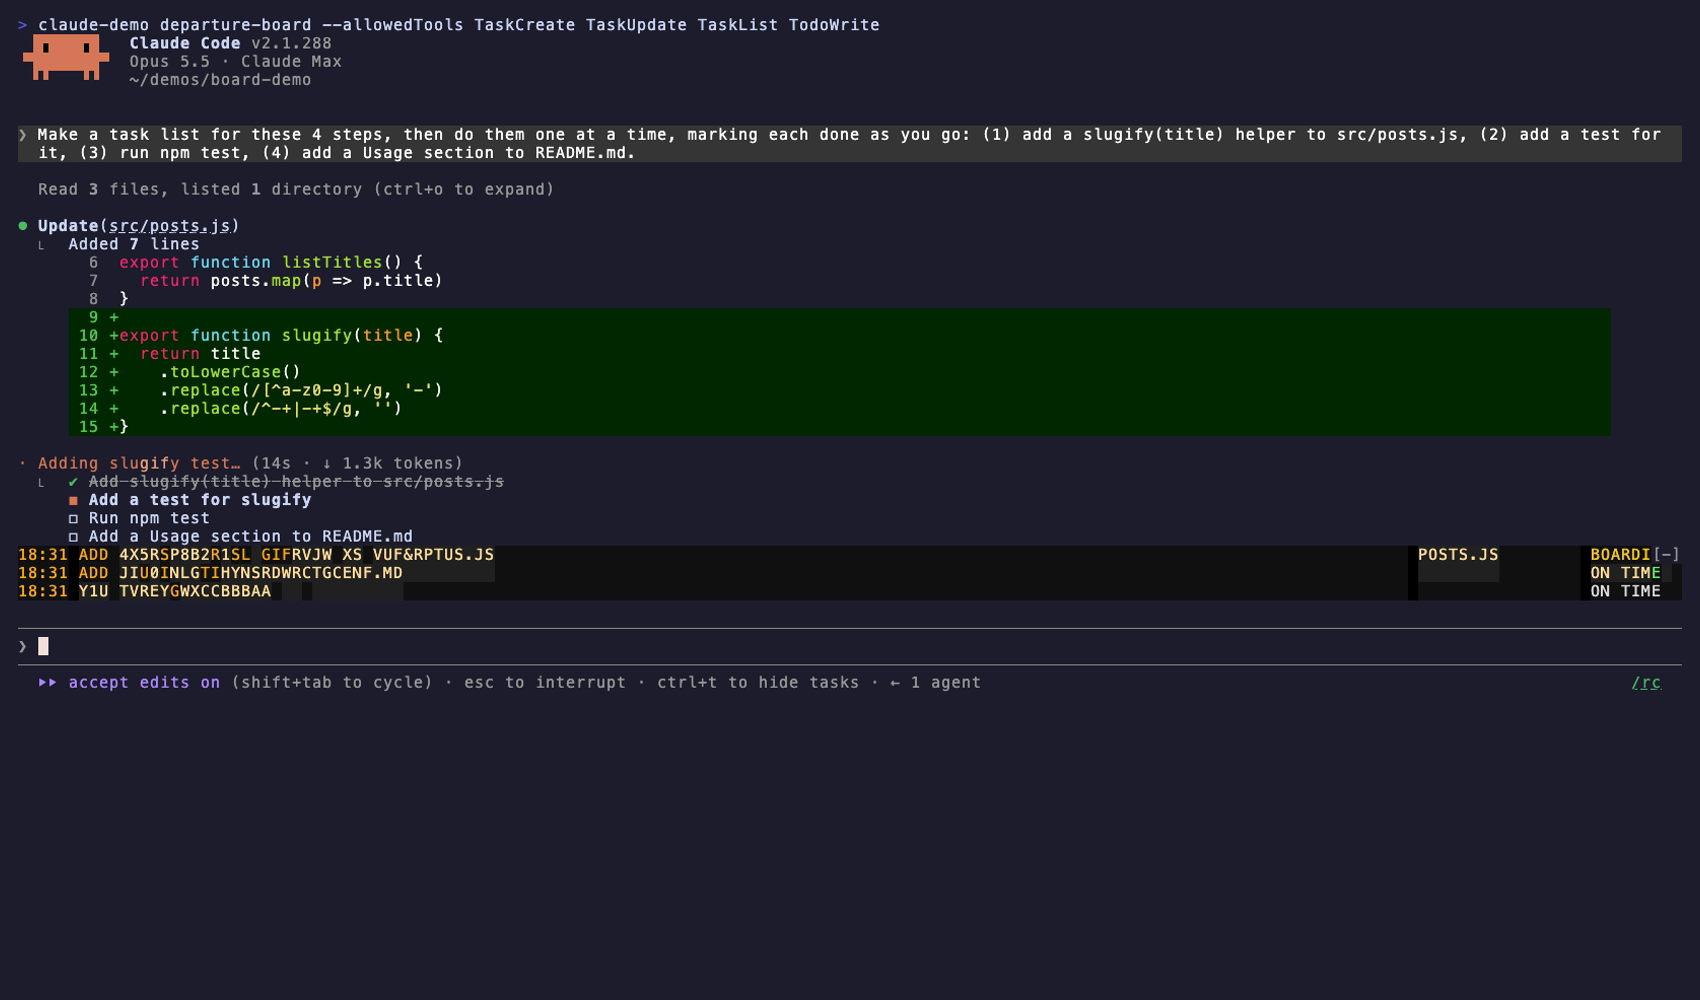
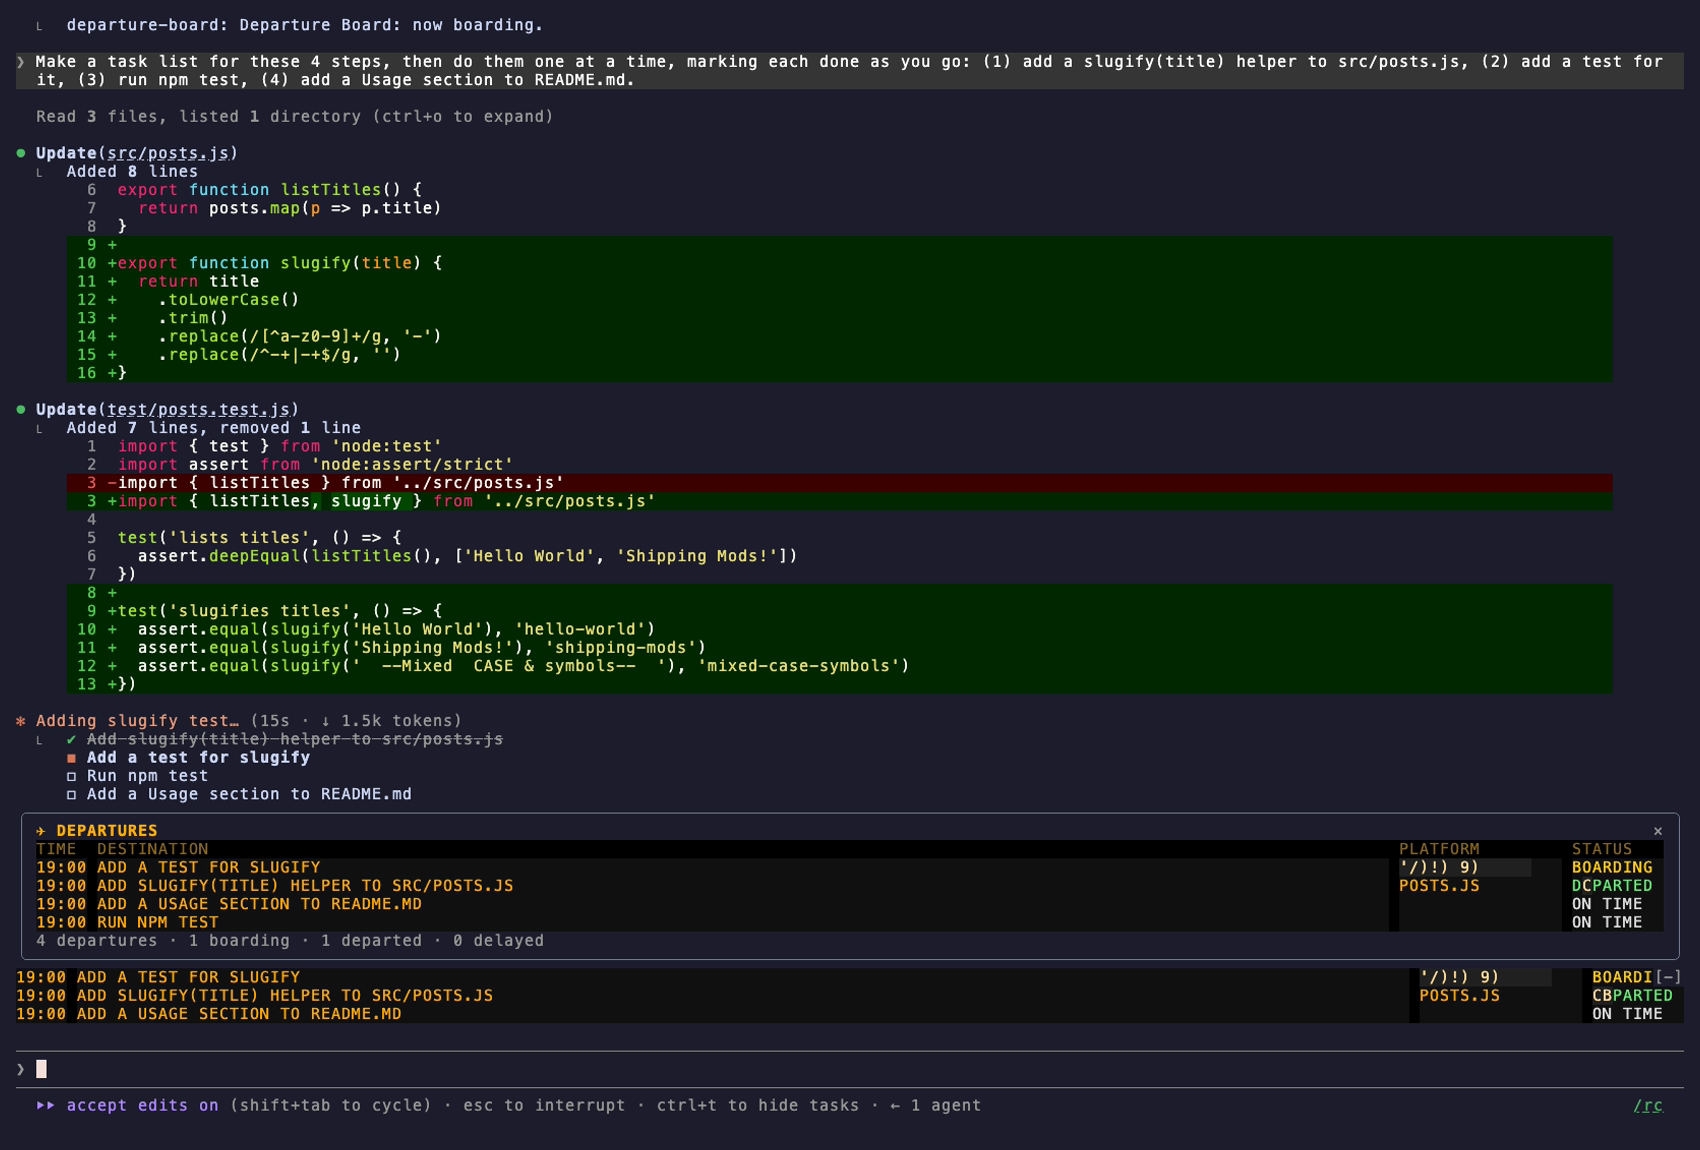
Inline /board sizes itself to its departures and grows with the board; a task list replaces only the turn that started it
- ui.open asks for rows = departures + title/header/footer (6..30), and asks again whenever the board grows
- inline pane lays out to the rows it asked for; a smaller body is trusted only below the last drawn height
- compact layout drops the title, then the footer, so the tree never exceeds its body
- a task list absorbs the turn row of the prompt that started it, once something on the list is boarding
- re-recorded demo: the pane now shows every departure

Claude-Session: https://claude.ai/code/session_017VGnCbLQmqNLXcx8R6Ha7V

diff --git a/hooks/register.tsx b/hooks/register.tsx
@@ -15,8 +15,11 @@ const MIN_COLUMNS = 21
 // Prompts that are a person's own words: each one is a new departure when no task list exists.
 const PERSON = ['composer', 'bridge', 'sdk', 'channel', 'slack-ping']
 const TASK_TOOLS = new Set(['TodoWrite', 'TaskCreate', 'TaskUpdate', 'TaskList'])
-// The pane opens this tall inline: a header, a handful of departures and the footer.
-const PANE_ROWS = 14
+// The inline pane asks to be as tall as its departures, between these bounds; a longer board scrolls its oldest away.
+const MIN_PANE_ROWS = 6
+const MAX_PANE_ROWS = 30
+// Rows around the departures: the title, the board's header row and the footer.
+const PANE_CHROME_ROWS = 3
 
 type Site = { requestId: string; key: string; flaps: Flaps }
 type Call = { tool: string; [k: string]: unknown }
@@ -33,6 +36,14 @@ let isClackOn = false
 const waitingPrompts: string[] = []
 // The main loop's running turn, so a plain tool call belongs to its row.
 let runningTurn: string | null = null
+// While the pane is open, the body rows it last asked for: a longer board asks again.
+let askedRows: number | null = null
+// The height of the tree the pane drew last: an inline host reports min(granted, measured), so only a report
+// smaller than what was drawn is a real, smaller window.
+let lastPaneHeight = 0
+
+// The turn whose prompt started the current task list: its row leaves once the list has something on its way.
+let listOwner: string | null = null
 
 /** A task list is "on" while some todo or task is still to go; a finished list gives the board back to the turns. */
 function hasLiveTaskList(all: BoardRow[]): boolean {
@@ -41,7 +52,15 @@ function hasLiveTaskList(all: BoardRow[]): boolean {
 
 /** The rows a board shows: the live task list when there is one, else everything (turns and finished items). */
 function shownRows(all: BoardRow[]): BoardRow[] {
-  return hasLiveTaskList(all) ? all.filter(r => r.source !== 'turn') : all
+  // The turn that started the list stays up until the list has something on its way (then it leaves the board).
+  return hasLiveTaskList(all) ? all.filter(r => r.source !== 'turn' || r.id === listOwner) : all
+}
+
+/** The list's creator leaves the board once the list has an item on its way; until then it keeps the platform and errors. */
+function absorbOwner(list: BoardRow[]): BoardRow[] {
+  if (listOwner === null) return list
+  const id = listOwner
+  return list.some(r => r.source !== 'turn' && isLive(r)) ? list.filter(r => r.id !== id) : list
 }
 
 const normalize = (text: string) => text.replace(/\s+/g, ' ').trim()
@@ -108,12 +127,39 @@ function place(id: string, requestId: string, key: string, columns: number, heig
   return site
 }
 
+/** The body rows the pane wants for this board: every shown departure plus its title, header row and footer. */
+export function wantedRows(all: BoardRow[]): number {
+  return Math.min(MAX_PANE_ROWS, Math.max(MIN_PANE_ROWS, shownRows(all).length + PANE_CHROME_ROWS))
+}
+
 async function openBoard($: EngineInterface): Promise<boolean> {
   try {
-    const opened = await $.ui.open({ id: PANE, title: 'Departures', rows: PANE_ROWS })
+    const want = wantedRows(await read($, rows))
+    const opened = await $.ui.open({ id: PANE, title: 'Departures', rows: want })
+    askedRows = opened.isPlaced ? want : null
     return opened.isPlaced
   } catch {
     return false
+  }
+}
+
+/** While the pane is open, ask for more rows once the board has outgrown what it asked for. */
+async function growBoard($: EngineInterface): Promise<void> {
+  try {
+    if (askedRows === null) {
+      // After a reload the module forgot what it asked for; a pane still on screen is still open.
+      const panes = await $.ui.panes()
+      const open = panes.some(p => p.id === PANE && p.isPlaced)
+      if (!open) return
+      askedRows = wantedRows(await read($, rows))
+      return
+    }
+    const want = wantedRows(await read($, rows))
+    if (want <= askedRows) return
+    const opened = await $.ui.open({ id: PANE, title: 'Departures', rows: want })
+    if (opened.isPlaced) askedRows = want
+  } catch {
+    // The board keeps its size; it still scrolls the oldest away.
   }
 }
 
@@ -193,6 +239,8 @@ export const register: Register = (on, options) => {
 
   on('ui.close', { id: PANE }, async ($, e, next) => {
     sites.delete(PANE)
+    askedRows = null
+    lastPaneHeight = 0
     return next(e)
   })
 
@@ -221,6 +269,7 @@ export const register: Register = (on, options) => {
       const now = await $.clock.now()
       const row: BoardRow = { id: `turn:${e.turnId}`, time: clockTime(now), destination: words, platform: '', status: 'BOARDING', source: 'turn', at: now, isTroubled: false, isActive: true }
       await update($, rows, list => trim([...list.filter(r => r.id !== row.id), row]))
+      await growBoard($)
     } catch {
       // Ignore.
     }
@@ -237,11 +286,16 @@ export const register: Register = (on, options) => {
       const now = await $.clock.now()
       const failed = ran.isError === true
 
+      // A task list stands in for the prompt that started it: only that turn (not one that later updates the list).
+      const madeBy = runningTurn === null ? null : `turn:${runningTurn}`
+      const startsList = (list: BoardRow[]) => !hasLiveTaskList(list)
+
       if (e.tool === 'TodoWrite') {
         if (failed) return ran
         const todos = Array.isArray(e.todos) ? e.todos : []
         const ids = todoIds(todos.map(t => t.content))
         await update($, rows, list => {
+          if (todos.length > 0 && startsList(list)) listOwner = madeBy
           const keep = list.filter(r => r.source !== 'todo')
           const before = new Map(list.filter(r => r.source === 'todo').map(r => [r.id, r]))
           const fresh = todos.map((t, i): BoardRow => {
@@ -262,8 +316,9 @@ export const register: Register = (on, options) => {
               isActive: false,
             }
           })
-          return trim([...keep, ...fresh])
+          return trim(absorbOwner([...keep, ...fresh]))
         })
+        await growBoard($)
         return ran
       }
 
@@ -271,7 +326,11 @@ export const register: Register = (on, options) => {
         const task = failed ? undefined : (ran.result as { task?: TaskRow } | undefined)?.task
         if (task?.id !== undefined) {
           const row: BoardRow = { id: `task:${task.id}`, time: clockTime(now), destination: task.subject ?? e.subject, platform: '', status: 'ON TIME', source: 'task', at: now, isTroubled: false, isActive: false }
-          await update($, rows, list => trim([...list.filter(r => r.id !== row.id), row]))
+          await update($, rows, list => {
+            if (startsList(list)) listOwner = madeBy
+            return trim(absorbOwner([...list.filter(r => r.id !== row.id), row]))
+          })
+          await growBoard($)
         }
         return ran
       }
@@ -286,8 +345,9 @@ export const register: Register = (on, options) => {
           const isTroubled = e.status === undefined ? base.isTroubled : e.status === 'in_progress' && base.isTroubled
           const status: BoardStatus = e.status === undefined ? base.status : statusOf(e.status, isTroubled)
           const row = { ...base, destination: e.subject ?? base.destination, status, isTroubled, at: now }
-          return trim([...list.filter(r => r.id !== id), row])
+          return trim(absorbOwner([...list.filter(r => r.id !== id), row]))
         })
+        await growBoard($)
         return ran
       }
 
@@ -307,8 +367,9 @@ export const register: Register = (on, options) => {
             })
             const ids = new Set(listed.map(r => r.id))
             // A full, successful snapshot: tasks it no longer lists were deleted, so they leave the board.
-            return trim([...list.filter(r => !ids.has(r.id) && r.source !== 'task'), ...listed])
+            return trim(absorbOwner([...list.filter(r => !ids.has(r.id) && r.source !== 'task'), ...listed]))
           })
+          await growBoard($)
         }
         return ran
       }
@@ -327,6 +388,7 @@ export const register: Register = (on, options) => {
         if (runningTurn === e.turnId) runningTurn = null
         // Only this turn's own row ends: a DELAYED turn that ends still departs (or is cancelled).
         await update($, rows, list => (list.some(r => r.id === id) ? list.map(r => (r.id === id ? { ...r, status: end, isActive: false, at: now } : r)) : list))
+        await growBoard($)
       } catch {
         // Ignore.
       }
@@ -372,42 +434,55 @@ export const register: Register = (on, options) => {
     const { Box, Text } = $.ui.resolve(e)
     const columns = Math.min(512, e.props.bodyColumns)
     // The pane's own body, less the title and the footer: never the whole terminal.
-    const body = e.props.scroll?.bodyRows ?? Math.max(6, Math.floor((e.viewport?.rows ?? 24) / 3))
-    const room = Math.max(3, Math.min(256, body - 2))
-    const list = boardOrder(all, room - 1)
+    const given = e.props.scroll?.bodyRows ?? 0
+    const asked = askedRows ?? wantedRows(await read($, rows))
+    // Inline, lay out to the height asked for (the host may report the body it measured, not the rows it granted);
+    // a smaller real window wins. Docked, the body is the real allocation.
+    const body = e.props.placement === 'inline' ? (given > 0 && given < lastPaneHeight ? given : asked) : given > 0 ? given : Math.max(6, Math.floor((e.viewport?.rows ?? 24) / 3))
+    const isRaster = e.surface === 'terminal' && columns >= MIN_COLUMNS
+    // Short of room for every departure, drop the title line and give its row to the board; tighter still, the footer.
+    const isCompact = body < all.length + PANE_CHROME_ROWS
+    const hasFooter = body >= (isRaster ? 3 : 2)
+    const boardRows = Math.max(1, Math.min(256, body - (isCompact ? 0 : 1) - (hasFooter ? 1 : 0)))
+    // The flap board spends one row on its column header; the text board does not.
+    const list = boardOrder(all, Math.max(0, isRaster ? boardRows - 1 : boardRows))
     const boarding = all.filter(r => r.status === 'BOARDING').length
     const departed = all.filter(r => r.status === 'DEPARTED').length
     const delayed = all.filter(r => r.status === 'DELAYED').length
     const more = all.length - list.length
     const footer = `${all.length} departures · ${boarding} boarding · ${departed} departed · ${delayed} delayed${more > 0 ? ` · ${more} not shown` : ''}`
 
-    if (e.surface !== 'terminal' || columns < MIN_COLUMNS) {
+    if (!isRaster) {
+      lastPaneHeight = (isCompact ? 0 : 1) + Math.max(1, list.length) + (hasFooter ? 1 : 0)
       const l = layout(Math.max(MIN_COLUMNS, columns))
       return (
         <Box flexDirection="column">
-          <Text bold>DEPARTURES</Text>
+          {!isCompact && <Text bold>DEPARTURES</Text>}
           {list.length === 0 && <Text dimColor>No departures yet. Give Claude a task.</Text>}
           {list.map(r => (
             <Text>
               {r.time} {clip(r.destination, Math.max(20, l.destination))} · {clip(r.platform, 24)} · {r.status}
             </Text>
           ))}
-          <Text dimColor>{footer}</Text>
+          {hasFooter && <Text dimColor>{footer}</Text>}
         </Box>
       )
     }
 
     const { Raster } = $.ui.resolve(e)
-    const height = Math.max(2, Math.min(room, list.length + 1))
+    const height = Math.max(1, Math.min(boardRows, list.length + 1))
+    lastPaneHeight = (isCompact ? 0 : 1) + height + (hasFooter ? 1 : 0)
     const site = place(PANE, e.requestId, 'board', columns, height, list, true)
     schedule($)
     return (
       <Box flexDirection="column">
-        <Text bold color="#ffb000">
-          ✈ DEPARTURES
-        </Text>
+        {!isCompact && (
+          <Text bold color="#ffb000">
+            ✈ DEPARTURES
+          </Text>
+        )}
         <Raster key="board" columns={columns} rows={height} cells={site.flaps.encode()} />
-        <Text dimColor>{list.length === 0 ? 'No departures yet. Give Claude a task.' : footer}</Text>
+        {hasFooter && <Text dimColor>{list.length === 0 ? 'No departures yet. Give Claude a task.' : `${isCompact ? '✈ ' : ''}${footer}`}</Text>}
       </Box>
     )
   })

diff --git a/tests/departure-board.test.tsx b/tests/departure-board.test.tsx
@@ -324,3 +324,111 @@ test('a finished task list gives the board back to the turns, and a TaskList sna
   await $.tool.call({ tool: 'TaskList' } as never)
   expect(await paneText($)).not.toMatch(/OLD TASK|Old task/)
 })
+
+test('a task list made by a prompt stands in for that prompt: the turn gets no row of its own', async ($, on) => {
+  world(on)
+  on('tool.call', () => ok)
+  await prompt($, 'build the checkout flow', 't1')
+  await $.tool.call(todos([['Add cart', 'in_progress'], ['Add payment', 'pending']]))
+  await $.tool.call(todos([['Add cart', 'completed'], ['Add payment', 'completed']]))
+  await end($, 't1', 'answer')
+  const text = await paneText($)
+  expect(text).toMatch(/ADD CART|Add cart/)
+  expect(text).not.toMatch(/build the checkout flow/)
+  // A later prompt with no task list is its own departure again.
+  await prompt($, 'now write the docs', 't2')
+  expect(await paneText($)).toMatch(/now write the docs/)
+})
+
+test('the pane opens as tall as its departures, and asks again when the board grows', async ($, on) => {
+  world(on)
+  const asked: number[] = []
+  on('ui.open', (_$, e) => {
+    asked.push(e.rows ?? -1)
+    return { value: { isPlaced: true } }
+  })
+  on('command.run', () => ({ text: 'engine' }))
+  on('tool.call', () => ok)
+  await $.tool.call(todos([['One', 'in_progress'], ['Two', 'pending']]))
+  await $.command.run({ command: 'board', args: '' } as never)
+  expect(asked).toEqual([6])
+  const many = Array.from({ length: 9 }, (_, i): [string, 'pending'] => [`Step ${i}`, 'pending'])
+  await $.tool.call(todos([['One', 'in_progress'], ...many]))
+  expect(asked).toEqual([6, 13])
+})
+
+test('a pane short of room drops its title and gives the row to the board', async ($, on) => {
+  world(on)
+  on('tool.call', () => ok)
+  await $.tool.call(todos([['A', 'in_progress'], ['B', 'pending'], ['C', 'pending'], ['D', 'pending'], ['E', 'pending']]))
+  const ui = await $.ui.mount({ ...PANE, surface: 'terminal', props: { ...PANE.props, scroll: { offset: 0, bodyRows: 5 } } })
+  expect(await ui.find({ type: 'Text', text: /^✈ DEPARTURES$/ })).toBeUndefined()
+  expect(await ui.find({ type: 'Text', text: /✈ 5 departures/ })).toBeDefined()
+  await ui.unmount()
+})
+
+test('only the turn that started the list leaves; a later turn that updates the list keeps its row', async ($, on) => {
+  world(on)
+  on('tool.call', () => ok)
+  await prompt($, 'plan the release', 'tA')
+  await $.tool.call(todos([['Tag it', 'in_progress'], ['Notes', 'pending']]))
+  await end($, 'tA', 'answer')
+  await prompt($, 'keep going with the release', 'tB')
+  await $.tool.call(todos([['Tag it', 'completed'], ['Notes', 'completed']]))
+  await end($, 'tB', 'answer')
+  const text = await paneText($)
+  expect(text).not.toMatch(/plan the release/)
+  expect(text).toMatch(/keep going with the release/)
+})
+
+test('a list with nothing on its way yet keeps the turn row, so errors still delay something', async ($, on) => {
+  world(on)
+  on('tool.call', (_$, e) => (e.tool === 'Bash' ? fail : ok))
+  await prompt($, 'set up the project', 't1')
+  await $.tool.call(todos([['Init', 'pending'], ['Lint', 'pending']]))
+  await $.tool.call({ tool: 'Bash', command: 'npm init -y' })
+  const text = await paneText($)
+  expect(text).toMatch(/set up the project/)
+  expect(text).toMatch(/DELAYED/)
+})
+
+test('the open pane asks again when prompts or a task snapshot grow the board', async ($, on) => {
+  world(on)
+  const asked: number[] = []
+  on('ui.open', (_$, e) => {
+    asked.push(e.rows ?? -1)
+    return { value: { isPlaced: true } }
+  })
+  on('command.run', () => ({ text: 'engine' }))
+  on('tool.call', (_$, e) => {
+    if (e.tool === 'TaskList') return { result: { tasks: Array.from({ length: 8 }, (_, i) => ({ id: String(i), subject: `Task ${i}`, status: 'pending' })) }, text: '' }
+    return ok
+  })
+  await $.command.run({ command: 'board', args: '' } as never)
+  for (let i = 0; i < 5; i += 1) {
+    await prompt($, `job ${i}`, `t${i}`)
+    await end($, `t${i}`, 'answer')
+  }
+  expect(asked[asked.length - 1]).toBe(8)
+  await $.tool.call({ tool: 'TaskList' } as never)
+  expect(asked[asked.length - 1]).toBe(11)
+})
+
+test('inline, the pane lays out to the rows it asked for, and a tiny body never overflows', async ($, on) => {
+  world(on)
+  on('ui.open', () => ({ value: { isPlaced: true } }))
+  on('command.run', () => ({ text: 'engine' }))
+  on('tool.call', () => ok)
+  await $.tool.call(todos([['A', 'in_progress'], ['B', 'pending'], ['C', 'pending'], ['D', 'pending']]))
+  await $.command.run({ command: 'board', args: '' } as never)
+  // Before the host has measured the tree it reports 0: the board still gets every departure (4 + header).
+  let ui = await $.ui.mount({ ...PANE, surface: 'terminal', props: { ...PANE.props, placement: 'inline', scroll: { offset: 0, bodyRows: 0 } } })
+  expect((await ui.find({ type: 'Raster', key: 'board' }))?.props?.rows).toBe(5)
+  await ui.unmount()
+  // A 3-row window: board and footer only, 3 rows in all.
+  ui = await $.ui.mount({ ...PANE, surface: 'terminal', props: { ...PANE.props, placement: 'inline', scroll: { offset: 0, bodyRows: 3 } } })
+  const raster = await ui.find({ type: 'Raster', key: 'board' })
+  const texts = await ui.findAll({ type: 'Text' })
+  expect((raster?.props?.rows as number) + texts.length).toBeLessThanOrEqual(3)
+  await ui.unmount()
+})
